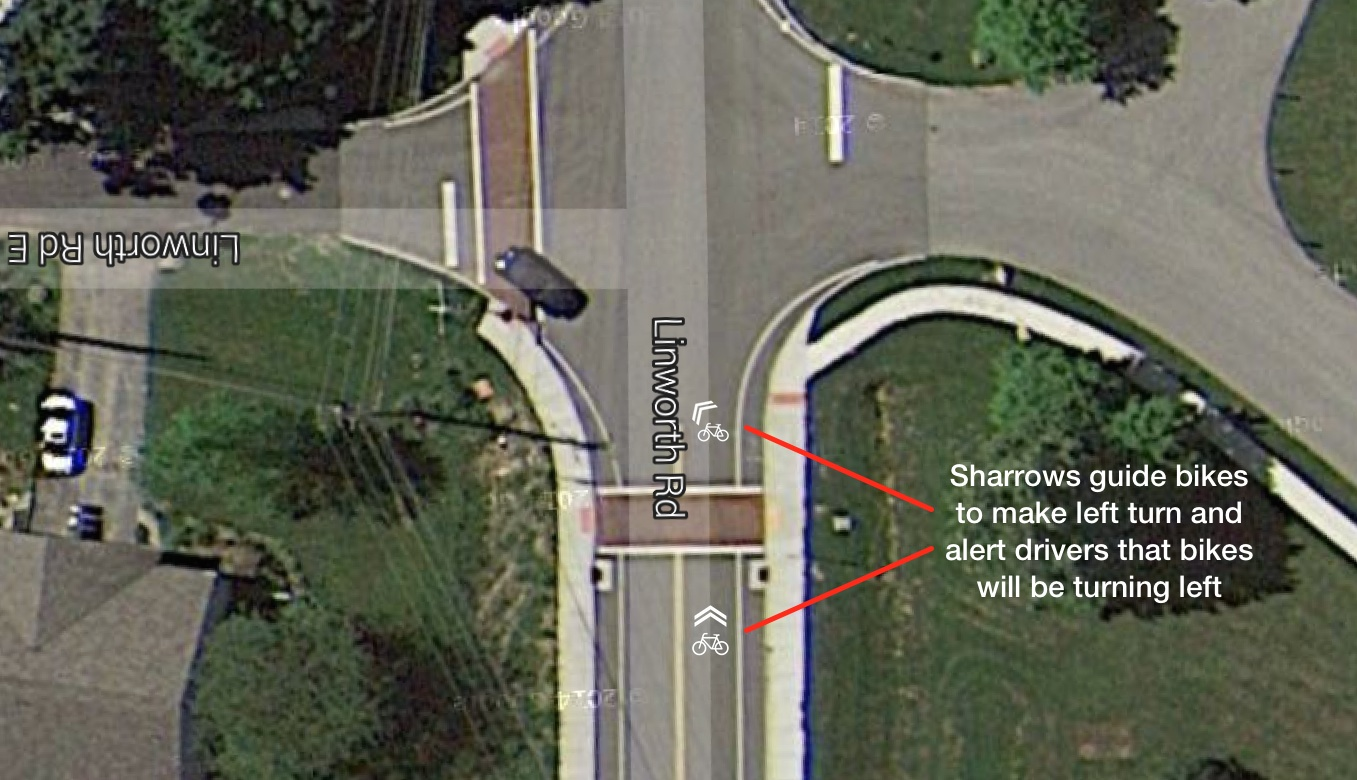
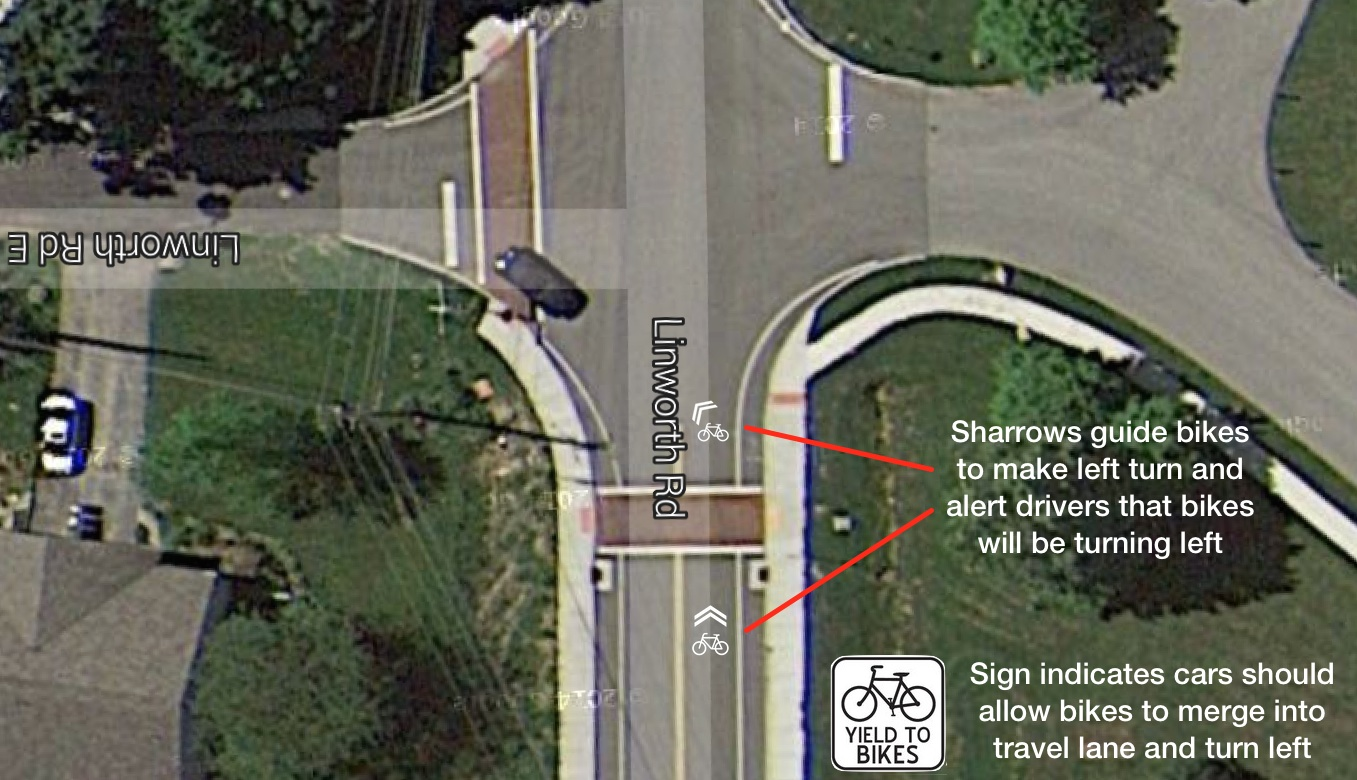
Update: "Alternate Route Options For The Olentangy Trail"

Changed region(s): [[0.5571, 0.5231, 0.9285, 0.8], [0.5881, 0.8308, 0.9904, 1.0]]

diff --git a/pages/alternate-route-options-for-the-olentangy-trail.md b/pages/alternate-route-options-for-the-olentangy-trail.md
@@ -6,8 +6,8 @@ title: "Alternate Route Options For The Olentangy Trail"
 cover_image: olentangy-trail/bike-boulevard-on-linworth-road-east.jpg
 cover_image_caption: "Photo: Rick Jordon"
 
-excerpt: "Options for a safe alternate route for trail traffic while the Olentangy Trail is closed
-          under the 315/270 interchange."
+excerpt: "Recommendations to create a safe alternate route for trail traffic while the Olentangy Trail
+          is closed under the 315/270 interchange."
 
 author:
   name: Will Koehler
@@ -27,8 +27,8 @@ state, with a volume of over 700 users per day. Some of this traffic is discreti
 during the trail closure. But for a significant number of cyclists, this section of trail is a vital
 transportation corridor connecting the northern suburbs to Worthington, Clintonville, OSU and downtown.
 
-The purpose of this document is to explore options for a safe alternate route for trail traffic
-while the Olentangy Trail is closed under the 315/270 interchange.
+This document outlines options to create a safe alternate route for trail traffic while the Olentangy Trail
+is closed under the 315/270 interchange.
 
 The routes proposed will not only serve to keep bike traffic flowing safely during this
 construction but will create new connections between neighborhoods and the Olentangy Trail, providing
@@ -48,21 +48,21 @@ Improvements required for this route may be beyond the scope of the project.
   <iframe src="https://mapsengine.google.com/map/u/0/embed?mid=zEAPhiHiDgA8.kJ15f3nMBWE8&z=14"></iframe>
 </div>
 
-## Wilson Bridge Rd
+## Wilson Bridge Road
 
-#### Add new park entrance at bottom of hill
+#### Add new bike and pedestrian park entrance
 
 Build trail spur from south side of skate park to a new bike and pedestrian entrance at the bottom
-of the hill on Wilson Bridge Rd <span class='muted smaller'>('A' on map)</span>. Adding a new
+of the hill on Wilson Bridge Road <span class='muted smaller'>('A' on map)</span>. Adding a new
 entrance has several advantages over using the existing park entrance:
 
-- Reduces distance travelled on Wilson Bridge and eliminates a blind curve.
-- Removes the hill.
+- Reduces distance travelled on Wilson Bridge by half.
 - Eliminates conflict between bike and car traffic at the park entrance.
+- Removes the hill.
 
 #### Add bike lanes
 
-Reduce lane width on Wilson Bridge Rd from 12' to 11', making room for 4' bike lanes. Add green
+Reduce lane width on Wilson Bridge Road from 12' to 11', making room for 4' bike lanes. Add green
 paint to bike lanes along the curved sections to increase visibility and discourage cars from
 drifting into the bike lane (taking the "racing line").
 
@@ -70,7 +70,7 @@ Ring up utility covers, bringing them up to even hight with the road.
 
 Add bike-friendly grids to the
 [drainage grates](https://www.flickr.com/photos/108988395@N05/15989372446/in/set-72157647422248523)
-on the bridge over 315, bringing them up to even height with the road.
+on the bridge over 315, bringing them up to even height with the road. <span class='muted smaller'>('G' on map)</span>
 
 
 #### Cut vegetation to improve sight lines
@@ -78,35 +78,49 @@ on the bridge over 315, bringing them up to even height with the road.
 Cut back honeysuckle along inside of curve to improve sight lines. This will help eastbound cars
 see bikes turning into the lower park entrance. <span class='muted smaller'>('B' on map)</span>
 
-#### Add signs and road markings at park entrance
+#### Add treatments for left turn at park entrance
 
-Add treatments to help bikes merge into traffic and make the left turn into the park
-<span class='muted smaller'>('A' on map)</span>. Suggested treatments are signs marking the park
-entrance and sharrows showing the left-turn movement. One possibility is shown below.
+Add treatments to help bikes merge into the travel lane and make the left turn into the park
+<span class='muted smaller'>('A' on map)</span>. Suggested treatments are sharrows showing the
+left-turn movement and a sign along the eastbound lane indicating cars should yield to left-turning
+bikes. See image below.
 
-<div class="full rounded shadow"><img src="/images/olentangy-trail/sharrow-left-turn-wison-bridge.jpg"></div>
+Because of the high volume of traffic on Wilson Bridge, merging into the lane to turn left may be
+challenging, even with the above treatments. A left-turn refuge box should be added to give
+bikes a safe spot to wait if they are unable to make the turn.
+
+<div class="full rounded shadow"><img src="/images/olentangy-trail/sharrow-left-turn-wilson-bridge.jpg"></div>
 
 ## Linworth Road
 
-#### Add bike lanes to Linworth Rd. north of Bluffway Dr
+#### Add bike lanes to Linworth Road north of Bluffway Dr
 
-Pave shoulder and add bike lanes between Bluffway Dr. and Hard Rd. New pavement should be smooth
+Pave shoulder and add bike lanes between Bluffway Dr. and Hard Road New pavement should be smooth
 with minimal seam between new and existing pavement.
 
-#### Add bike boxes at Hard Rd. intersection
+#### Add bike boxes at Hard Road intersection
 
-Bike boxes allow cyclists to move up to the front of stopped traffic during the red light cycle and
-get a head start into the intersection when the light turns green. This reduces right hooks and other
-conflicts that occur when bikes and cars are mixed going into an intersection. See image below.
-<span class='muted smaller'>('C' on map)</span>
+[Bike boxes](http://urbanmilwaukee.com/2014/10/24/bike-czar-tosa-installs-first-bike-box-in-metro-area/)
+allow bikes to move up to the front of stopped traffic during the red light cycle and get a head start
+into the intersection when the light turns green. <span class='muted smaller'>('C' on map)</span>
+This reduces right hooks and other conflicts that occur when bikes and cars are mixed going into an
+intersection.
 
-<div class="full rounded shadow"><img src="/images/olentangy-trail/hard-road-bike-boxes.jpg"></div>
+There is also a ongoing problem with cars passing and cutting off bikes to turn right on Hard Road from
+Linworth Road. Adding a 50ft section of green paint in the Linworth bike lane approaching the intersection
+may help highlight the presence of bikes. See image below.
 
-#### Add treatments for left turn onto Linworth Rd E.
+Since bike boxes are fairly new in Columbus, an education campaign is recommended to teach cyclists and
+drivers [how to use the bike boxes](https://www.portlandoregon.gov/transportation/article/185112).
 
-Add treatments to help bikes merge into traffic and make the left turn onto Linworth Rd. E. <span class='muted smaller'>('D' on map)</span>
-One possibility is sharrows showing the left-turn movement. See image below. Another possibility
-is to add a 4-way stop at the intersection.
+<div class="full rounded shadow"><img src="/images/olentangy-trail/linworth-road-bike-boxes.jpg"></div>
+
+#### Add treatments for left turn onto Linworth Road E.
+
+Add treatments to help bikes merge into the travel lane and make the left turn onto Linworth Road E.
+<span class='muted smaller'>('D' on map)</span> One possibility is to add sharrows showing the
+left-turn movement and a sign along the southbound lane indicating cars should yield to left-turning
+bikes. See image below. Another possibility is to add a 4-way stop at the intersection.
 
 <div class="full rounded shadow"><img src="/images/olentangy-trail/sharrow-left-turn-linworth.jpg"></div>
 
@@ -125,14 +139,14 @@ future project. For completeness the findings are documented below.
 ## Olentangy River Road
 
 There is a multi-use trail along the south half of Olentangy River Road. The trail ends just
-south of Snouffer Rd. The northern section of Olentangy River Road is narrow with no shoulder and
-limited sight lines. Widening Olentangy River Road would require a major reconstruction. Extending
-the multi-use trail is equally challenging.
+south of Snouffer Road The northern section of Olentangy River Road is narrow with no shoulder and
+limited sight lines. <span class='muted smaller'>('H' on map)</span> Widening Olentangy River Road
+would require a major reconstruction. Extending the multi-use trail is equally challenging.
 
 Adding sharrows to this section would probably not achieve a sufficient level of safety.
 There are limited places to pass along this section of road. Even if the speed limit
 were reduced from 45 mph to 35 mph, there would still be a significant speed difference
-between cars and bikes, creating pressure for cars to pass bikes.
+between cars and bikes, creating pressure for cars to pass bikes where it's not safe.
 
 ## State Route 161
 
@@ -162,9 +176,11 @@ visibility and no safety zone to wait for a safe opportunity to cross. See photo
 
 <div class="full rounded shadow"><img src="/images/olentangy-trail/315-northbound-entrance.jpg"></div>
 
-The recommended solution is to add a bike-only signal phase with diagonal crossing. See image below.
-A lighted "Caution bikes / No turn on red" sign would also be needed for the 315 southbound exit ramp.
-This sign would be lit during the bike-only signal phase.
+The recommended solution is to add a bike-only signal phase with diagonal crossing. The signal phase
+would be activated by cyclists, either with a button or in-ground detectors. During the bike-only
+signal phase, bikes would have a green signal. All other directions would have a red signal, allowing
+bikes to cross diagonally. See image below. A lighted "Caution bikes / No turn on red" sign would also
+be needed for the 315 southbound exit ramp. This sign would be lit during the bike-only signal phase.
 
 [Similar designs](https://www.google.com/maps/@45.5285205,-122.6657424,3a,75y,340.97h,73.06t/data=!3m4!1e1!3m2!1sq47qxmXLP7pKCH7bdCtmnQ!2e0!5m1!1e3?hl=en)
 are used in other cities.
@@ -177,7 +193,14 @@ Differential settling has [created seams](https://www.flickr.com/photos/10898839
 along the line of travel. Sections of the sidewalk should be replaced to fix the seams.
 
 Ideally a concrete safety wall should be added similar to the wall on the Olentangy Trail at
-[Henderson Rd.](https://www.google.com/maps/@40.051834,-83.030313,3a,75y,266.81h,82.94t/data=!3m4!1e1!3m2!1sqKjCx_ut2DXOukymzJCERg!2e0!5m1!1e3?hl=en)
+[Henderson Road](https://www.google.com/maps/@40.051834,-83.030313,3a,75y,266.81h,82.94t/data=!3m4!1e1!3m2!1sqKjCx_ut2DXOukymzJCERg!2e0!5m1!1e3?hl=en).
+
+## Wayfinding Signage
+
+Add wayfinding signage along route. Follow Columbus's current bike route sign standards. Refer to signs
+between Henderson Road side path and Olentangy trail for an example.
+
+<div class="full rounded shadow"><img src="/images/olentangy-trail/bike-route-wayfinding-sign.jpg"></div>
 
 ## Bike lane maintenance
 
@@ -188,9 +211,9 @@ Bi-weekly sweeping is recommended to keep the bike lanes free of debris.
 
 ## Credits
 
-The recommendations in this document are the results of a reconnaissance ride and meeting on Dec 13, 2014,
-attended by ODOT representatives and cycling advocates. Rick Jordon compiled a collection of
-[photos from the ride](https://www.flickr.com/photos/108988395@N05/sets/72157647422248523/).
+The recommendations in this document are the results of a reconnaissance ride and meeting on Dec 13, 2014
+attended by ODOT representatives and cycling advocates. Thank you, ODOT, for helping us review the route
+options. Thank you, Rick Jordon, for taking [photos of the ride](https://www.flickr.com/photos/108988395@N05/sets/72157647422248523/).
 
 Will Koehler <span class='muted'>- Cycling advocate</span><br>
 Chris Fischer <span class='muted'>- Cycling advocate</span><br>
